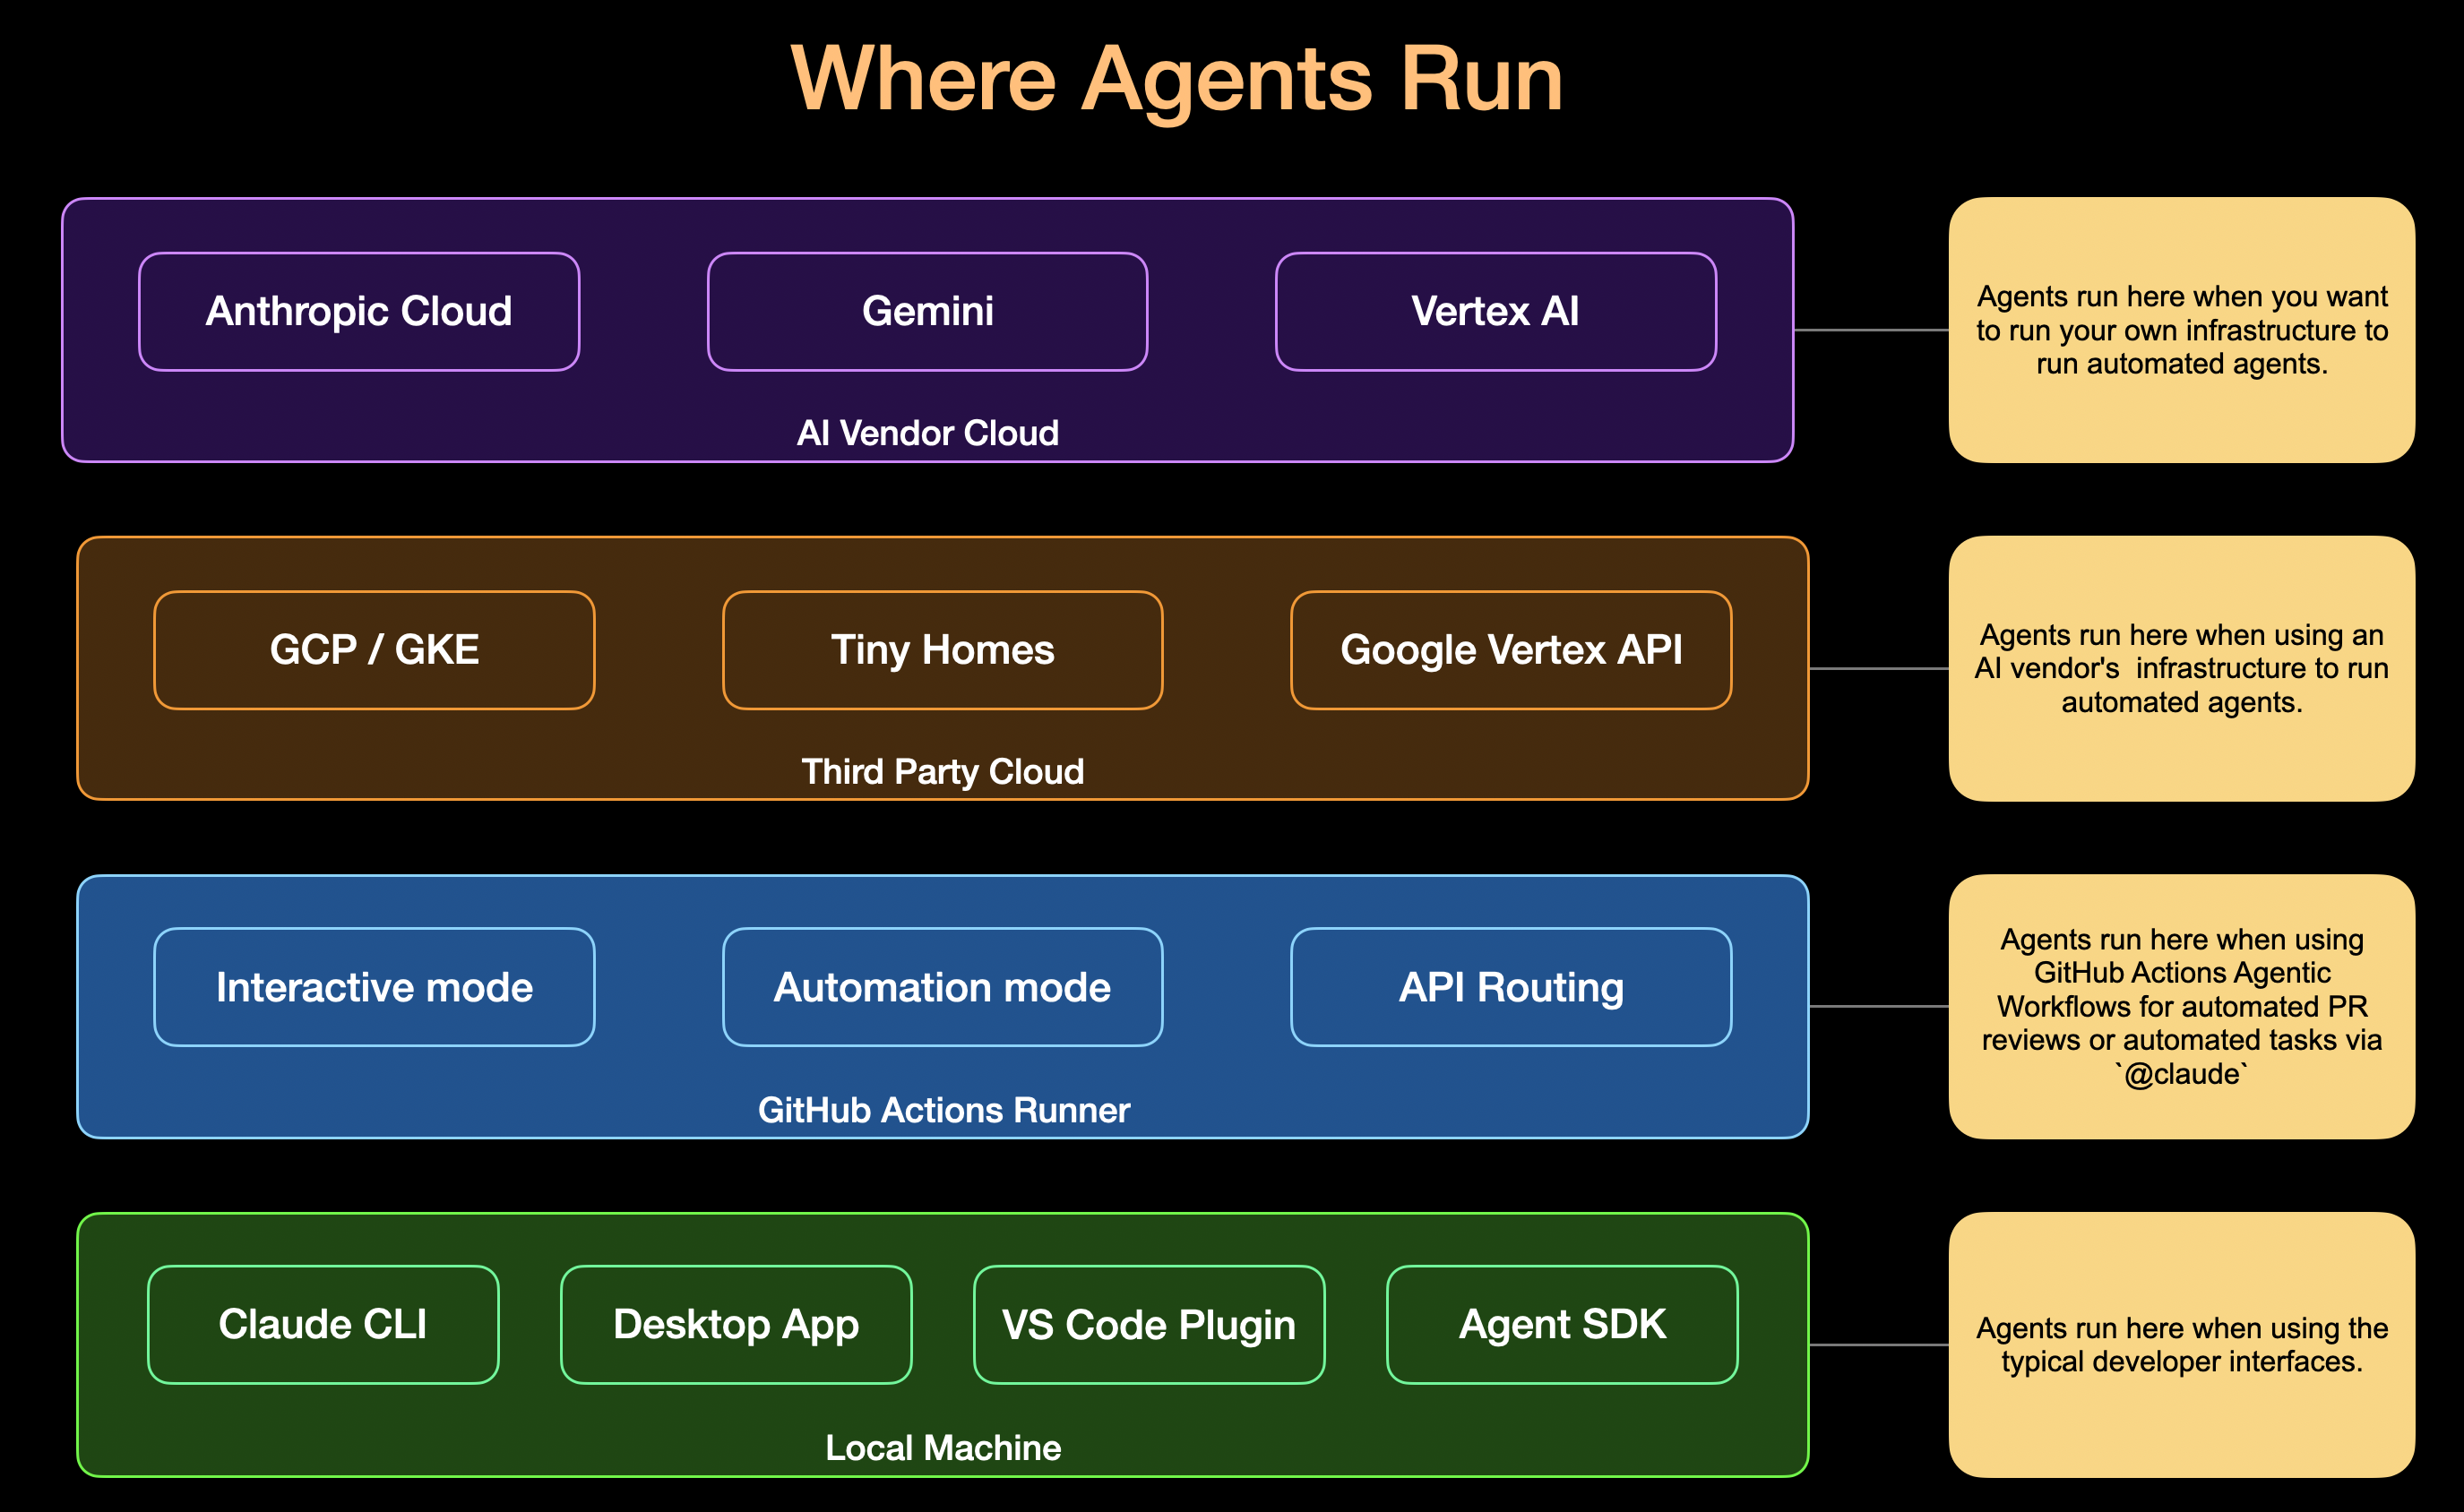
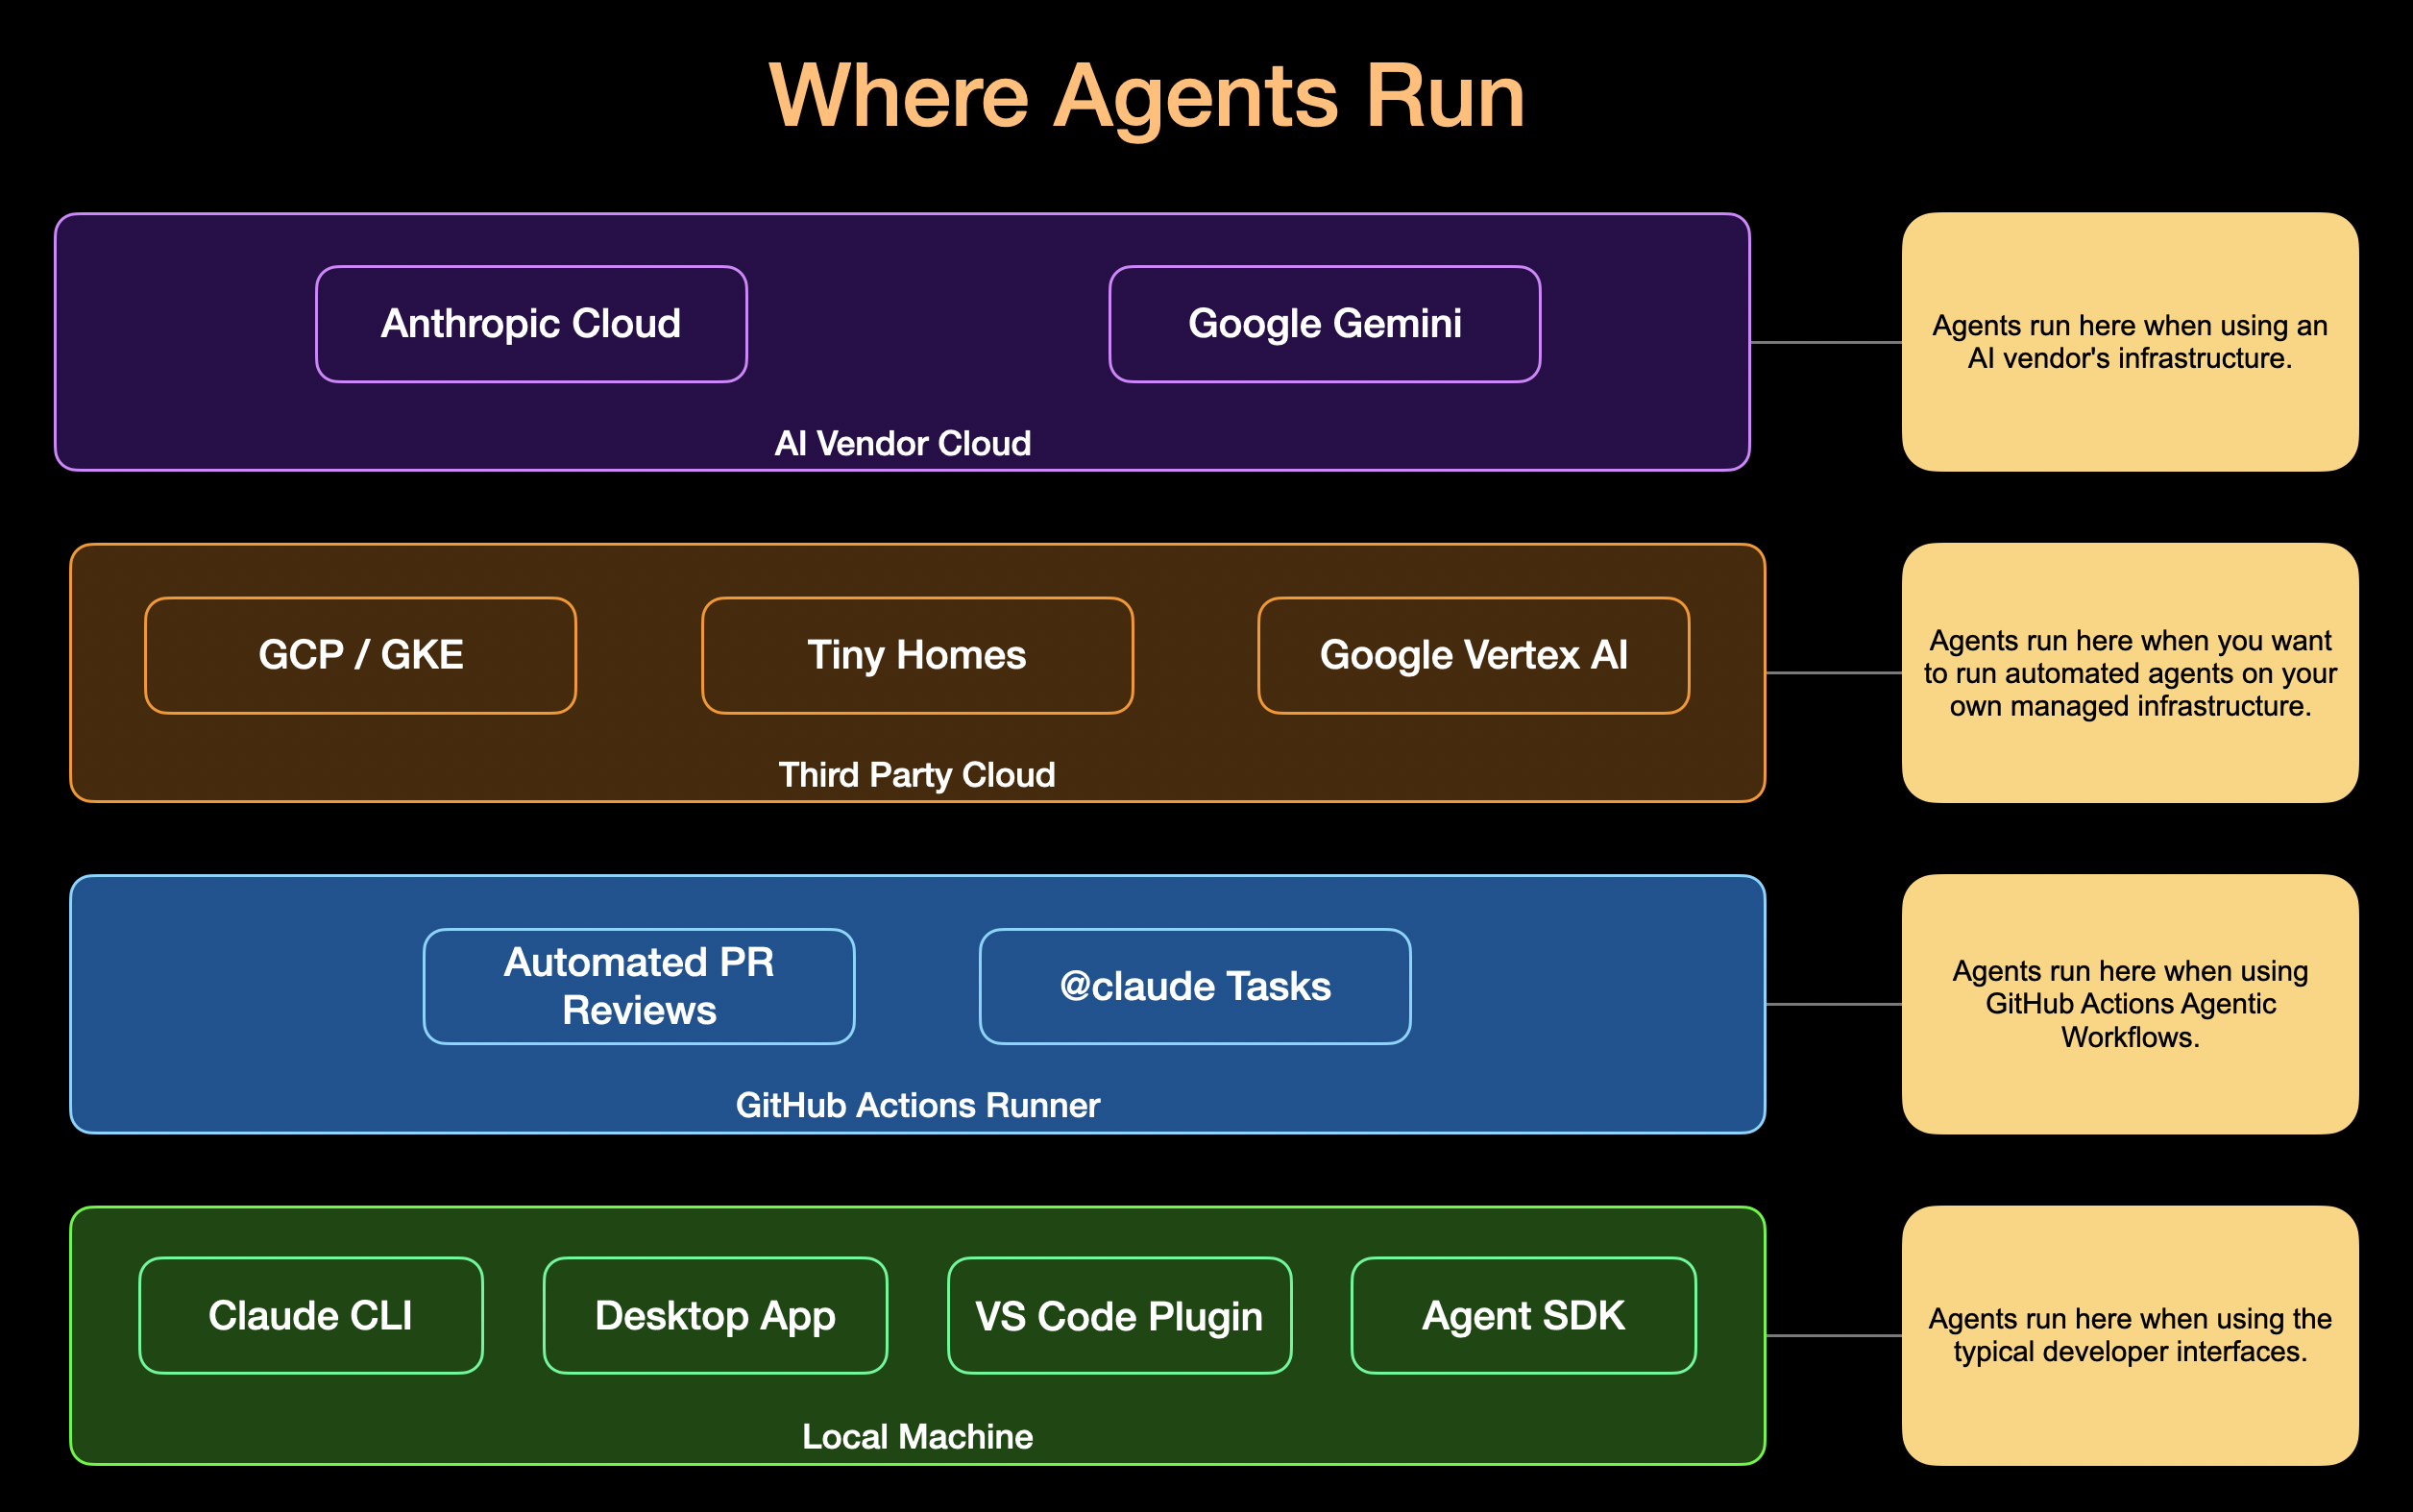
Saving work.

diff --git a/docs/claude-code-cli/choosing-a-model.md b/docs/claude-code-cli/choosing-a-model.md
@@ -1,0 +1,88 @@
+---
+layout: doc
+outline: [2, 4]
+---
+
+# Choosing a Model
+
+Claude Code allows for selecting an LLM/model to use for planning and implementation.
+
+## Model Tiers
+
+| Alias      | Resolves to (Anthropic API)    | Best for                                    |
+| ---------- | ------------------------------ | ------------------------------------------- |
+| `opus`     | Opus 4.7                       | Complex reasoning, architecture, research   |
+| `sonnet`   | Sonnet 4.6                     | Daily coding — best balance of quality/cost |
+| `haiku`    | Haiku (latest)                 | Simple scripts, fast throwaway tasks        |
+| `best`     | Same as `opus`                 | Convenience alias                           |
+| `opusplan` | Opus (plan) → Sonnet (execute) | Hybrid: smart planning, efficient execution |
+
+## How to Set the Model
+
+Configuration is honored in this priority order:
+
+```bash
+# 1. During session (highest priority)
+/model opus
+/model sonnet          # interactive picker if no arg: /model
+
+# 2. At startup
+claude --model opusplan
+
+# 3. Environment variable
+export ANTHROPIC_MODEL=sonnet
+
+# 4. Settings file (lowest priority)
+# ~/.claude/settings.json
+{ "model": "sonnet" }
+```
+
+**To persist a `/model` choice as your new default:** press `d` on the highlighted row in the interactive picker — it writes to your settings file.
+
+---
+
+## The `opusplan` Alias — Most Interesting Option
+
+`opusplan` uses Opus during plan mode for complex reasoning and architecture decisions, then automatically switches to Sonnet for code generation and execution — giving you the best of both worlds. This is the sweet spot for complex feature work.
+
+---
+
+## Effort Levels (Orthogonal to Model)
+
+Effort is a separate dial that controls _how much the model thinks per turn_, independent of which model you're on:
+
+| Level    | Use when...                                                     |
+| -------- | --------------------------------------------------------------- |
+| `low`    | Latency-sensitive, scoped tasks                                 |
+| `medium` | Cost-sensitive work, some quality tradeoff OK                   |
+| `high`   | Intelligence-sensitive work                                     |
+| `xhigh`  | Default on Opus 4.7; best for most coding + agentic tasks       |
+| `max`    | Deep reasoning on demanding tasks — session only, can overthink |
+
+```bash
+/effort high
+/effort xhigh     # Opus 4.7 default
+```
+
+**One-off override:** include `ultrathink` anywhere in your prompt — it triggers deeper reasoning for that turn without changing the session effort level.
+
+## Extended Context (1M tokens)
+
+Opus 4.7, Opus 4.6, and Sonnet 4.6 all support a 1M token context window. On Max, Team, and Enterprise plans, Opus is automatically upgraded to 1M context. Sonnet with 1M context requires usage credits on every plan.
+
+```bash
+/model opus[1m]
+/model sonnet[1m]
+```
+
+## Practical Decision Framework
+
+```
+Is the task architectural / research-heavy?
+  └─ Yes → opus or opusplan
+  └─ No  → Is it simple/throwaway?
+              └─ Yes → haiku
+              └─ No  → sonnet (the sane default for ~90% of work)
+```
+
+For most daily coding sessions, `sonnet` with `xhigh` effort is the practical sweet spot. Reserve `opus` for when you're doing design work, deep debugging, or need architectural judgment.

diff --git a/docs/skills/hof/superpowers-plugin.md b/docs/skills/hof/superpowers-plugin.md
@@ -22,6 +22,8 @@ It provides composable skills for:
 - **Socratic Brainstorming** — refining requirements before coding begins
 - **Subagent-Driven Development** — parallel agents with built-in code review checkpoints
 
+![Superpowers Workflows](/superpowers-skills-flow.png)
+
 ## Key Features
 
 Key features and installation details include:
@@ -29,6 +31,43 @@ Key features and installation details include:
 - **Workflow Structure**: It enforces a brainstorm-plan-implement cycle, using git worktrees for parallel task isolation and requiring passing tests before any code is committed.
 - **Compatibility**: Although optimized for **Claude Code**, it also supports **Codex CLI**, **Codex App**, **GitHub Copilot CLI**, **Cursor**, **Gemini CLI**, and **OpenCode** with specific installation commands for each.
 - **Cost**: The plugin is **completely free** with no hidden costs or subscription limits, suitable for both personal and commercial use.
+
+### Skill Priority Order
+
+1. Process skills first — these govern HOW to approach the work:
+    - `superpowers:brainstorming` — before any creative/feature work
+    - `superpowers:systematic-debugging` — before proposing any fix
+    - `superpowers:writing-plans` — when you have multi-step requirements
+2. Implementation skills second — these guide execution:
+    - `superpowers:test-driven-development` — before writing implementation code
+    - `superpowers:executing-plans` — when running a written plan
+    - `frontend-design:frontend-design` — for UI/component work
+
+### Common Triggers
+
+| Situation                     | Skill to invoke                             |
+| :---------------------------- | :------------------------------------------ |
+| Building something new        | `brainstorming` → then implementation skill |
+| Bug or test failure           | `systematic-debugging`                      |
+| About to claim work is done   | `verification-before-completion`            |
+| Multi-step implementation     | `writing-plans` → `executing-plans`         |
+| Requesting a code review      | `requesting-code-review`                    |
+| Code review feedback received | `receiving-code-review`                     |
+| Completing a feature branch   | `finishing-a-development-branch`            |
+| 2+ independent tasks          | `dispatching-parallel-agents`               |
+
+## Compatibility
+
+The Superpowers plugin works with the following harnesses:
+
+- Claude Code
+- Codex CLI
+- Codex App
+- Factory Droid
+- Gemini CLI
+- OpenCode
+- Cursor
+- GitHub Copilot CLI
 
 ## Installation
 
@@ -47,6 +86,8 @@ Key features and installation details include:
 
 :::
 
+See the official [Superpowers Plugin](https://github.com/obra/superpowers) GitHub repository for installation to other AI tools and harnesses.
+
 ## **The Basic Workflow**
 
 1. **brainstorming** - Activates before writing code. Refines rough ideas through questions, explores alternatives, presents design in sections for validation. Saves design document.
@@ -59,8 +100,21 @@ Key features and installation details include:
 
 **The agent checks for relevant skills before any task.** Mandatory workflows, not suggestions.
 
-## The Nine Skills
+## The Skills
 
-There are nine skills over seven phases of SDLC.
-
-![9 Skills](/public/superpowers-skills.png)
+| Skill                          | Phase              | Description                                                                                           |
+| :----------------------------- | :----------------- | :---------------------------------------------------------------------------------------------------- |
+| brainstorming                  | Planning           | Socratic design refinement                                                                            |
+| writing-plans                  | Planning           | Detailed implementation plans                                                                         |
+| using-git-worktrees            | Setup              | Parallel development branches                                                                         |
+| subagent-driven-development    | Setup              | Fast iteration with two-stage review (spec compliance, then code quality)                             |
+| dispatching-parallel-agents    | Setup              | Concurrent subagent workflows                                                                         |
+| executing-plans                | Implementation     | Batch execution with checkpoints                                                                      |
+| test-driven-development        | Implementation     | RED-GREEN-REFACTOR cycle (includes testing anti-patterns reference)                                   |
+| systematic-debugging           | Implementation     | 4-phase root cause process (root-cause-tracing, defense-in-depth, condition-based-waiting techniques) |
+| verification-before-completion | Implementation     | Ensure it's actually fixed                                                                            |
+| requesting-code-review         | Review             | Pre-review checklist                                                                                  |
+| receiving-code-review          | Review             | Responding to feedback                                                                                |
+| finishing-a-development-branch | Completion         | Merge/PR decision workflow                                                                            |
+| writing-skills                 | Skills Development | Create new skills following best practices (includes testing methodology)                             |
+| using-superpowers              | Help               | Introduction to the skills system                                                                     |

diff --git a/docs/skills/index.md b/docs/skills/index.md
@@ -3,12 +3,18 @@ layout: home
 
 hero:
     name: 'Skills'
-    tagline: Learn how skills work and how to write and use them.
+    tagline: Learn how skills work and how to use and write them.
 
 features:
-    - title: How Skills Work
+    - title: Skills
       details: Skills are like recipes, they are instructions for how to do things.
-      link: /docs/skills/welcome
+      link: /docs/skills/intro
+    - title: Installing Skills
+      details: You can install a single skill or a set of skills via a plugin.
+      link: /docs/skills/installing
+    - title: Using Skills
+      details: Skills can be invoked implicitly or explicitly.
+      link: /docs/skills/using
     - title: Writing Skills
       details: Best practices for writing effective skills
       link: /docs/skills/writing

diff --git a/illustrations/key-components.md b/illustrations/key-components.md
@@ -1,0 +1,5 @@
+---
+layout: doc
+---
+
+![Key Components of Modern Generative AI](/ai-key-components.png)

diff --git a/about.md b/about.md
@@ -4,6 +4,10 @@ layout: home
 hero:
     name: 'Dr. Mike Hopper'
     tagline: I'm a Software Engineer, Technologist and Technology Educator specializing in Enterprise Level Software Development, Cloud Computing, and Generative AI.
+    image:
+        src: Mike-2024.png
+        size: 400
+        alt: Dr. Mike
 ---
 
 # About Me

diff --git a/illustrations/index.md b/illustrations/index.md
@@ -7,6 +7,9 @@ hero:
     tagline: Below is a collection of illustrations.
 
 features:
+    - title: Key Components
+      details: The key components of modern generative AI
+      link: /illustrations/key-components
     - title: Agentic Kitchen
       details: Agents are like chefs in a kitchen. They need recipes (skills), ingredients (context), and cooking utensils (tools).
       link: /illustrations/agentic-kitchen